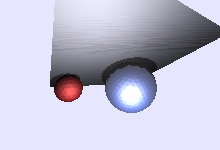
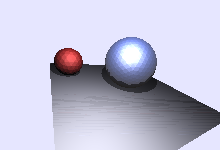
Fix vertically-flipped rendered images
The image canvas was assembled bottom-to-top (row 0 = bottom of the
camera screen), causing all rendered/saved images to appear upside
down. Flip the canvas vertically before display/save in
Renderer._raytraceCamView so output matches conventional image row
order (row 0 = top).

Regenerated the two README demo images (docs/images/) with the fix.

diff --git a/pyraytrender/renderer.py b/pyraytrender/renderer.py
@@ -105,7 +105,12 @@ class Renderer():
         imgCanvas = imgCanvas.reshape(
             [np.ceil(float(self.Camera.height)/self.dwnSmpl).astype(np.int64), 
              np.ceil(float(self.Camera.width)/self.dwnSmpl).astype(np.int64), 3])
-                      
+
+        # Camera rays are sampled bottom-to-top along the image-screen height
+        # (row 0 = bottom of the screen), so flip vertically to match the
+        # conventional top-to-bottom row order expected by imshow/PIL.
+        imgCanvas = np.flipud(imgCanvas)
+
         t1_raytraceCamView = time.time()
                      
         ## Report Computational Time <DEBUG>
